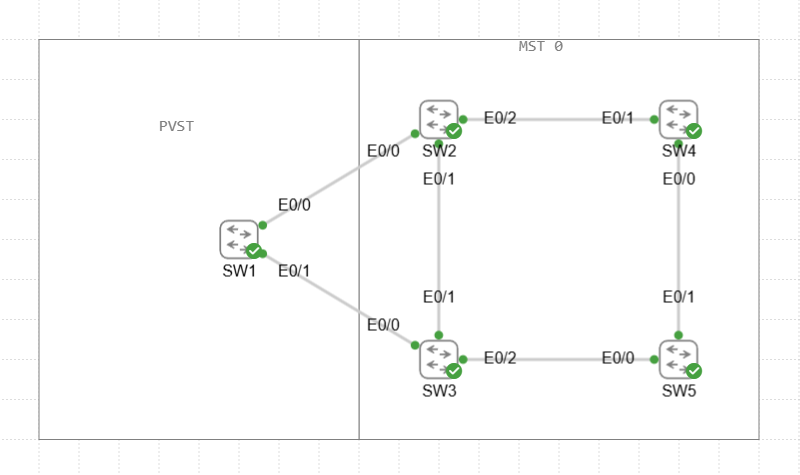
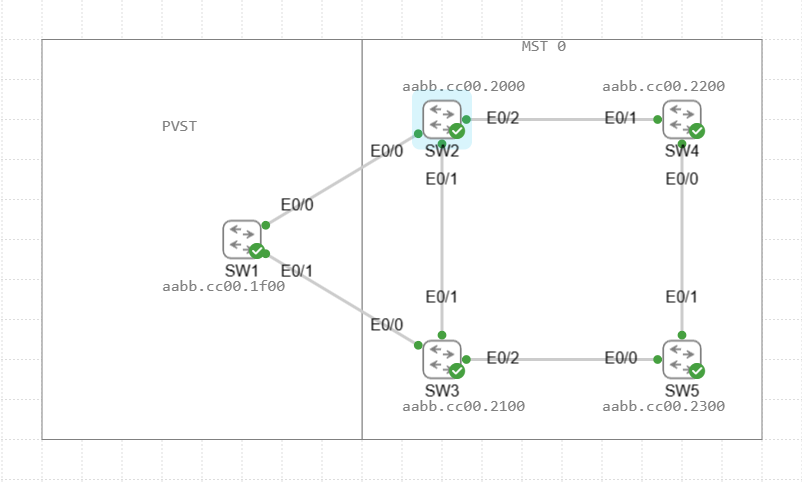
stp lab

diff --git a/Layer 2 - Concepts/Spanning-Tree/STP Lab.md b/Layer 2 - Concepts/Spanning-Tree/STP Lab.md
@@ -12,3 +12,48 @@ We will be connecting the switches in the following Topology:
 
 ![Topology](Images/Topology.png)
 
+Lets create our spanning-tree MST region. This will need to match on all switches.
+
+SW:
+conf t  
+spanning-tree mst configuration  
+name LAB  
+revision 0  
+exit  
+spanning-tree mode mst  
+
+The MST instance to VLAN mapping must match. In this case MST0 contains vlans 1-4094.
+
+Now that all the switches are configured let's look on SW2's spanning tree table to see the result.
+
+![SW2-Root](Images/SW2-Root.png)
+
+As we can see from this SW2 is the root bridge. Why is that? The reason its the root bridge is not because of the priority as all of those were left as default. It due to SW2 having the lowest MAC address.
+
+Let's demonstrate how we can influence the root bridge by changing the priority.
+
+On the switch we would like to make our root bridge we run the following commands.
+
+SW5:
+
+conf t
+spanning-tree mst 0 priority 4096
+
+
+You also have the option to run "spanning-tree mst 0 root primary" which will automatically make it the lowest priority out of the current bridge ID's.
+
+Now lets look at SW2's spanning tree table again.
+
+![SW5-Root](Images/SW5-Root.png)
+
+As we can see the Root ID is now aabb.cc00.2300 and the priority is 4096. If we go back to the topology we can see aabb.cc00.2300 is the MAC of SW5.
+
+# Calculating Root/Designated/Blocking Ports
+
+Next we need to calculate the Root ports. This is done by selecting the link with the lowest cost to the root. Next is through the bridge with lowest ID then its up to the link with the lowest port number EX: E0/0 > E0/1.
+
+Based on that information we get the following Root ports.
+
+![Root-Port-Calculation](Images/Root-Port-Calculation.png)
+
+
